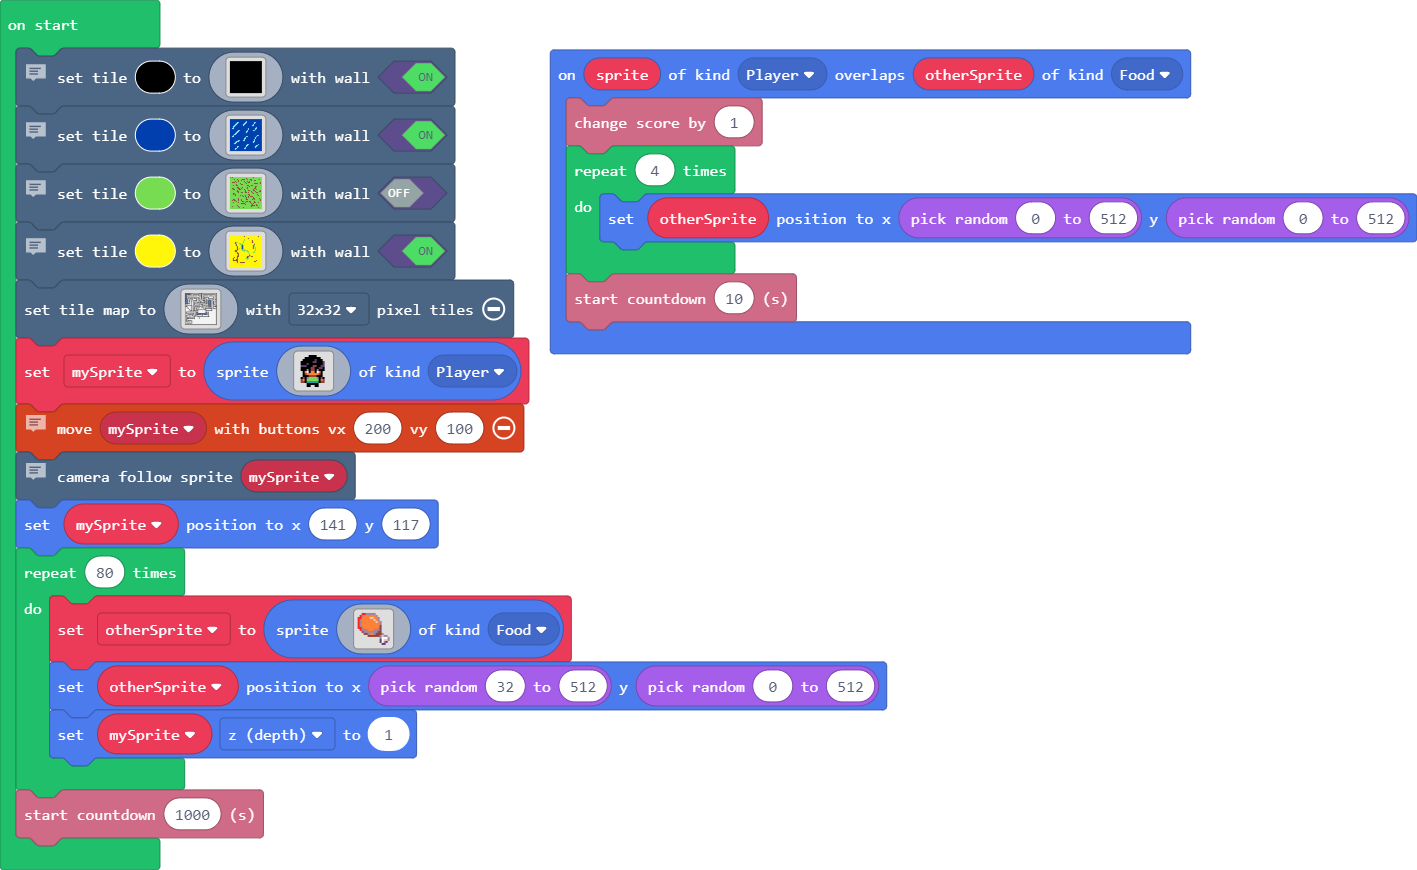
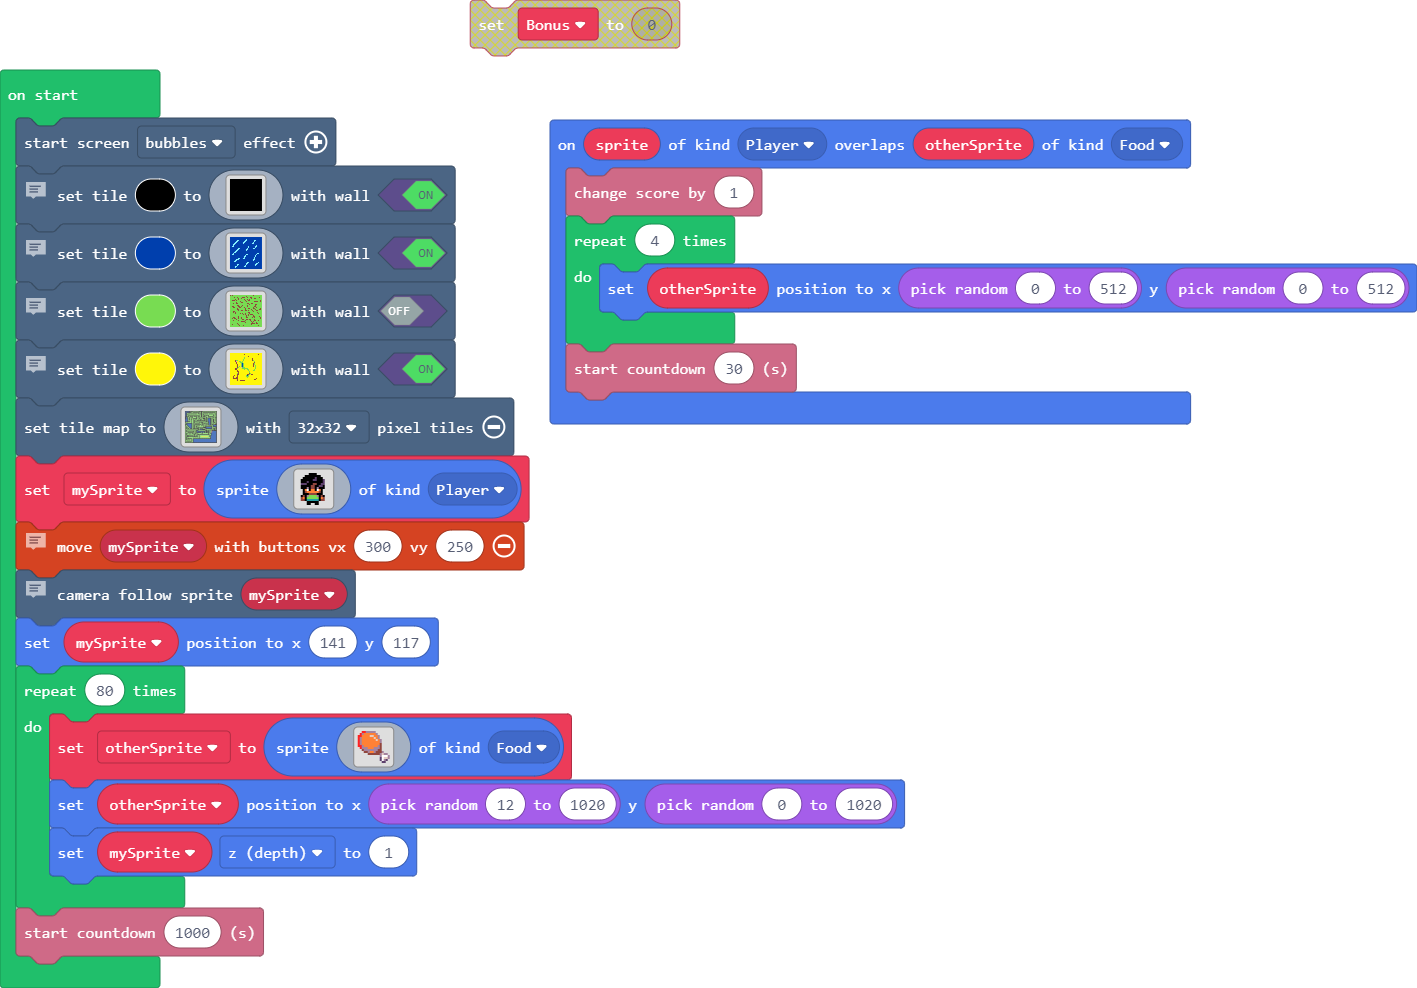
submit maze game

diff --git a/main.ts b/main.ts
@@ -3,9 +3,10 @@ sprites.onOverlap(SpriteKind.Player, SpriteKind.Food, function (sprite, otherSpr
     for (let index = 0; index < 4; index++) {
         otherSprite.setPosition(Math.randomRange(0, 512), Math.randomRange(0, 512))
     }
-    info.startCountdown(10)
+    info.startCountdown(30)
 })
 let otherSprite: Sprite = null
+effects.bubbles.startScreenEffect()
 // When turned on player cannot enter that color
 scene.setTile(15, img`
 f f f f f f f f f f f f f f f f f f f f f f f f f f f f f f f f 
@@ -148,52 +149,52 @@ scene.setTile(5, img`
 `, true)
 scene.setTileMap(img`
 f f f f f f f f f f f f f f f f f f f f f f f f f f f f f f f f f f f f f f f f f f f f f f f f 
-f 8 8 8 8 8 8 f 1 1 f 1 1 1 1 1 1 1 1 1 1 1 f 1 f f 1 1 1 1 1 1 1 1 1 1 1 1 1 1 1 1 1 1 1 1 1 f 
-f 8 f f f f f f f 1 f 1 f f f f f f f f f 1 f 1 f f 1 f f f f f f f f f f f f f f f f f f f 1 f 
-f 8 f 1 1 1 1 1 1 1 1 1 1 1 1 1 1 1 1 1 f 1 1 1 f f 1 1 1 1 1 1 1 1 1 1 1 1 1 1 1 1 1 1 1 f 1 f 
-f 8 f 1 f f f f f f f f f f f f f f f 1 f f f f f f 1 f f f f f f f f 1 f f f f f f f 1 f f 1 f 
-f 8 f 1 f 1 1 1 1 1 1 1 1 1 1 1 1 1 1 1 1 1 1 1 f f 1 f 1 1 1 1 1 1 1 1 1 1 1 1 1 1 f 1 1 f 1 f 
-f 8 f 1 f f f f f f f f f f f f f f f f f f f 1 f f 1 f 1 f 1 f f f f f 1 1 1 1 1 1 f f 1 f 1 f 
-f 8 f 1 1 1 1 1 1 1 1 1 1 1 1 1 1 1 1 1 1 1 1 1 f f 1 f 1 f 1 f 1 1 1 f 1 1 1 1 1 1 1 f 1 1 1 f 
-f f f f f f 1 f f f f f 1 f f f f f 1 f f f f 1 f f 1 f f f 1 f 1 1 1 f f f f f f f 1 f 1 f 1 f 
-f f 8 f 1 1 1 f 1 1 f f 1 1 1 1 1 f 1 1 1 1 1 1 1 1 1 1 1 1 1 f f 1 1 1 1 1 1 1 1 1 1 f 1 f f f 
-f f 8 f f 1 f f 1 1 f 1 1 1 1 1 1 f 1 f f f f f f f f f f f 1 1 f 1 f f f f f 1 f f f f 1 f 1 f 
-f f 8 8 f 1 f 1 1 1 f 1 f f f f f f 1 1 1 f 1 1 1 1 1 f f f f 1 f 1 f 8 8 8 f 1 f 1 1 1 1 f 1 f 
-f f 8 8 f 1 f 1 1 f f 1 f 1 1 1 1 1 1 1 f f 1 f f f 1 f 1 f f 1 f 1 f 8 8 8 f 1 f 1 f f 1 f 1 f 
-f 8 8 8 f 1 f f 1 f 1 1 f 1 f f f f f 1 1 1 1 f 1 1 1 1 1 f f 1 f 1 f 8 8 8 f 1 f 1 f f 1 f 1 f 
-f 8 8 8 f 1 1 1 1 f 1 1 f 1 f 1 1 1 f f f f f f f f f f f f f 1 f 1 f 8 8 8 f 1 f 1 f f 1 f 1 f 
-f 8 8 8 f f f f 1 f 1 1 f 1 f 1 f 1 1 1 1 1 1 1 1 1 1 1 1 1 1 1 f 1 f 8 8 8 f 1 f 1 f f 1 f 1 f 
-f f f f f 1 f 1 1 f 1 1 f 1 f 1 f f f f f f f f f f f f f f f f f 1 f f 8 8 f 1 f 1 f f 1 1 1 f 
-f 1 1 1 1 1 1 1 1 f 1 1 f 1 f 1 1 1 1 1 1 1 f 1 f 1 f 1 1 1 1 1 1 1 1 f 8 8 f 1 f 1 1 f f f 1 f 
-f 1 f f f f f f f f f 1 f 1 f f f f f f f f f 1 f 1 f 1 f f f f f f 1 f 8 8 f 1 f 1 f f 1 1 1 f 
-f 1 f 1 1 1 1 1 1 1 f 1 f 1 1 1 1 1 1 1 1 1 1 1 1 1 f 1 f 1 1 1 1 f 1 f 8 8 f 1 f 1 1 1 1 f f f 
-f f f f 1 1 1 1 1 1 f 1 f 1 f f f f f f f f f f f 1 f 1 f 1 f 1 f f 1 f 8 8 f 1 f 1 f f f f f f 
-f 1 1 f 1 1 1 1 1 1 f 1 f 1 f 1 1 1 1 1 1 f 1 1 f 1 f 1 f 1 f 1 f f 1 f f f f 1 f 1 f 1 1 1 1 f 
-f 1 1 1 f 1 1 1 1 1 f 1 f 1 f 1 f f f f f f 1 1 f 1 1 1 f 1 f 1 1 1 1 1 1 1 1 1 f 1 f 1 1 1 1 f 
-f 1 1 1 1 f 1 1 1 1 f 1 f 1 f 1 1 f 1 1 1 1 1 1 1 1 1 1 f 1 f f f f f f f f f f f 1 f f f f f f 
-f 1 1 1 1 1 f 1 1 1 f 1 f 1 f 1 f f 1 f f f f f f f f f f f f f 1 1 1 1 1 1 1 1 f 1 1 1 1 1 1 f 
-f 1 1 1 1 1 1 f 1 1 f 1 f 1 f 1 1 1 1 f 1 1 1 1 1 1 1 1 1 1 1 f 1 1 1 1 1 1 1 1 f 1 1 1 1 1 1 f 
-f 1 1 1 1 1 1 1 f f f 1 f f f f f f f f 1 1 1 1 1 1 1 1 1 1 1 f f f f f f f f f f 1 1 1 1 1 1 f 
-f 1 1 1 1 1 1 1 1 1 1 1 1 1 1 1 1 1 1 1 1 1 1 1 1 1 1 1 1 1 1 1 1 1 1 1 1 1 1 1 1 1 1 1 1 1 1 f 
-f 1 f f f f f f f f f f f f f f f f f f 1 1 1 1 1 1 1 1 1 1 1 f f f 1 f 1 1 1 1 1 1 1 1 1 1 1 f 
-f 1 f 1 1 1 1 1 1 1 1 1 1 1 1 1 1 f 8 f 1 1 1 1 1 1 1 1 1 1 1 f 8 f 1 f 1 1 1 1 1 1 1 1 1 1 1 f 
-f 1 f f f f f f f f f f f f 1 f 1 f 8 f f f f f f f f f f f f f 8 f 1 f 1 1 1 1 1 1 1 1 1 1 1 f 
-f 1 f 1 1 1 1 1 1 1 1 1 1 f 1 f 1 f 8 8 8 8 8 8 8 8 8 8 8 8 8 8 8 f 1 f 1 1 1 1 1 1 1 1 1 1 1 f 
-f 1 1 1 f f f f f f f f 1 f 1 f 1 f f f f f f f 1 f f 1 f f f f f f 1 f 1 1 1 1 1 1 1 1 1 1 1 f 
-f 1 f 1 f 1 1 1 1 1 1 f 1 1 1 f 1 1 1 1 1 1 1 1 1 f f 1 1 1 1 1 1 1 1 f 1 1 1 1 1 1 1 1 1 1 1 f 
-f 1 f 1 f 1 f f f f 1 f f f f f f f f f 1 1 1 1 1 1 1 1 1 1 1 1 1 1 1 f 1 1 1 1 1 1 1 1 1 1 1 f 
-f 1 f 1 1 1 1 1 1 1 1 1 1 1 f 1 1 1 1 f f f f f f f f f f f f f f f f f f 1 1 1 1 1 1 1 1 1 1 f 
-f 1 f f f f f f f f f f f 1 f 1 1 1 1 1 1 f 1 1 1 1 1 1 1 1 1 1 1 1 1 1 1 1 1 1 1 1 1 1 1 1 1 f 
-f 1 1 1 f 1 1 1 1 1 1 1 1 1 f 1 1 1 1 1 1 f 1 1 1 1 1 1 1 1 1 1 1 1 1 1 1 1 1 1 1 1 1 1 1 1 1 f 
-f 1 f f f f f f f f f f f f f 1 1 1 1 1 1 f 1 1 1 1 1 1 1 1 1 1 1 1 1 1 1 1 1 1 1 1 1 1 1 1 1 f 
-f 1 f 1 1 1 1 1 1 1 1 1 1 1 1 1 1 1 1 1 1 1 1 1 1 1 1 1 1 1 1 1 1 1 1 1 1 1 1 1 1 1 1 1 1 1 1 f 
-f 1 f 1 f 1 1 1 1 1 1 1 1 1 1 1 1 1 1 1 1 1 1 1 1 1 1 1 1 1 1 1 1 1 1 1 1 1 1 1 1 1 1 1 1 1 1 f 
-f 1 f 1 f f f f f f f 1 1 1 1 1 1 1 1 1 1 1 1 1 1 1 1 1 1 1 1 1 1 1 1 1 1 1 1 1 1 1 1 1 1 1 1 f 
-f 1 f 1 1 1 1 1 1 1 f 1 1 1 1 1 1 1 1 1 1 1 1 1 1 1 1 1 1 1 1 1 1 1 1 1 1 1 1 1 1 1 1 1 1 1 1 f 
-f 1 f f f f f f 1 1 f 1 1 1 1 1 1 1 1 1 1 1 1 1 1 1 1 1 1 1 1 1 1 1 1 1 1 1 1 1 1 1 1 1 1 1 1 f 
-f 1 1 1 1 1 1 1 1 1 f 1 1 1 1 1 1 1 1 1 1 1 1 1 1 1 1 1 1 1 1 1 1 1 1 1 1 1 1 1 1 1 1 1 1 1 1 f 
-f 1 f f f f f f f f f 1 1 1 1 1 1 1 1 1 1 1 1 1 1 1 1 1 1 1 1 1 1 1 1 1 1 1 1 1 1 1 1 1 1 1 1 f 
-f 1 1 1 1 1 1 1 1 1 1 1 1 1 1 1 1 1 1 1 1 1 1 1 1 1 1 1 1 1 1 1 1 1 1 1 1 1 1 1 1 1 1 1 1 1 1 f 
+f 8 8 8 8 8 8 f 7 7 f 7 7 7 7 7 7 7 7 7 7 7 f 7 f f 7 7 7 7 7 7 7 7 7 7 7 7 7 7 7 7 7 7 7 7 7 f 
+f 8 f f f f f f f 7 f 7 f f f f f f f f f 7 f 7 f f 7 f f f f f f f f f f f f f f f f f f f 7 f 
+f 8 f 7 7 7 7 7 7 7 7 7 7 7 7 7 7 7 7 7 f 7 7 7 f f 7 7 7 7 7 7 7 7 7 7 7 7 7 7 7 7 7 7 7 f 7 f 
+f 8 f 7 f f f f f f f f f f f f f f f 7 f f f f f f 7 f f f f f f f f 7 f f f f f f f 7 f f 7 f 
+f 8 f 7 f 7 7 7 7 7 7 7 7 7 7 7 7 7 7 7 7 7 7 7 f f 7 f 7 7 7 7 7 7 7 7 7 7 7 7 7 7 f 7 7 f 7 f 
+f 8 f 7 f f f f f f f f f f f f f f f f f f f 7 f f 7 f 7 f 7 f f f f f 7 7 7 7 7 7 f f 7 f 7 f 
+f 8 f 7 7 7 7 7 7 7 7 7 7 7 7 7 7 7 7 7 7 7 7 7 f f 7 f 7 f 7 f 7 7 7 f 7 7 7 7 7 7 7 f 7 7 7 f 
+f f f f f f 7 f f f f f 7 f f f f f 7 f f f f 7 f f 7 f f f 7 f 7 7 7 f f f f f f f 7 f 7 f 7 f 
+f f 8 f 7 7 7 f 7 7 f f 7 7 7 7 7 f 7 7 7 7 7 7 7 7 7 7 7 7 7 f f 7 7 7 7 7 7 7 7 7 7 f 7 f f f 
+f f 8 f f 7 f f 7 7 f 7 7 7 7 7 7 f 7 f f f f f f f f f f f 7 7 f 7 f f f f f 7 f f f f 7 f 7 f 
+f f 8 8 f 7 f 7 7 7 f 7 f f f f f f 7 7 7 f 7 7 7 7 7 f f f f 7 f 7 f 8 8 8 f 7 f 7 7 7 7 f 7 f 
+f f 8 8 f 7 f 7 7 f f 7 f 7 7 7 7 7 7 7 f f 7 f f f 7 f 7 f f 7 f 7 f 8 8 8 f 7 f 7 f f 7 f 7 f 
+f 8 8 8 f 7 f f 7 f 7 7 f 7 f f f f f 7 7 7 7 f 7 7 7 7 7 f f 7 f 7 f 8 8 8 f 7 f 7 f f 7 f 7 f 
+f 8 8 8 f 7 7 7 7 f 7 7 f 7 f 7 7 7 f f f f f f f f f f f f f 7 f 7 f 8 8 8 f 7 f 7 f f 7 f 7 f 
+f 8 8 8 f f f f 7 f 7 7 f 7 f 7 f 7 7 7 7 7 7 7 7 7 7 7 7 7 7 7 f 7 f 8 8 8 f 7 f 7 f f 7 f 7 f 
+f f f f f 7 f 7 7 f 7 7 f 7 f 7 f f f f f f f f f f f f f f f f f 7 f f 8 8 f 7 f 7 f f 7 7 7 f 
+f 7 7 7 7 7 7 7 7 f 7 7 f 7 f 7 7 7 7 7 7 7 f 7 f 7 f 7 7 7 7 7 7 7 7 f 8 8 f 7 f 7 7 f f f 7 f 
+f 7 f f f f f f f f f 7 f 7 f f f f f f f f f 7 f 7 f 7 f f f f f f 7 f 8 8 f 7 f 7 f f 7 7 7 f 
+f 7 f 8 8 8 8 8 8 8 f 7 f 7 7 7 7 7 7 7 7 7 7 7 7 7 f 7 f 7 7 7 7 f 7 f 8 8 f 7 f 7 7 7 7 f f f 
+f f f f 8 8 8 8 8 8 f 7 f 7 f f f f f f f f f f f 7 f 7 f 7 f 7 f f 7 f 8 8 f 7 f f f f f f f f 
+f f 7 f 8 8 8 8 8 8 f 7 f 7 f 7 7 7 7 7 7 f 7 7 f 7 f 7 f 7 f 7 f f 7 f f f f 7 f 7 f 8 8 8 8 f 
+f 7 7 7 f 8 8 8 8 8 f 7 f 7 f 7 f f f f f f 7 7 f 7 7 7 f 7 f 7 7 7 7 7 7 7 7 7 f 7 f 8 8 8 8 f 
+f 7 f 7 7 f 8 8 8 8 f 7 f 7 f 7 7 f 7 7 7 7 7 7 7 7 7 7 f 7 f f f f f f f f f f f 7 f f f f f f 
+f 7 f f 7 7 f 8 8 8 f 7 f 7 f 7 f f 7 f f f f f f f f f f f f f 8 8 8 8 8 8 8 8 f 7 f 7 7 7 f f 
+f 7 f 7 f 7 7 f 8 8 f 7 f 7 f 7 7 7 7 f 7 7 7 7 7 7 7 7 f f f f 8 8 8 8 8 8 8 8 f 7 7 7 f 7 f f 
+f 7 f 7 f f 7 7 f f f 7 f f f f f f f f f 7 f f f f f 7 7 7 7 f f f f f f f f f f 7 f f f 7 f f 
+f 7 7 7 7 7 7 7 7 7 7 7 7 7 7 7 7 7 7 7 f 7 f 8 8 8 f f f f 7 7 7 7 7 7 7 7 7 7 7 7 7 7 f 7 7 f 
+f 7 f f f f f f f f f f f f f f f f f f f 7 f f f f f f f f f f f f 7 f 7 f f f f f f f f f f f 
+f 7 f 7 7 7 7 7 7 7 7 7 7 7 7 7 7 f 8 f 7 7 7 7 7 7 7 7 7 7 7 f f f 7 f 7 f 7 7 e f 8 f f f f f 
+f 7 f f f f f f f f f f f f 7 f 7 f 8 f f f f f f f f f f f 7 f f f 7 f 7 f 7 7 e 8 8 8 8 8 8 f 
+f 7 f 7 7 7 7 7 7 7 7 7 7 f 7 f 7 f 8 8 8 8 8 8 8 8 8 8 8 f 7 f f f f f 7 f 7 e e 8 8 8 8 8 8 f 
+f 7 7 7 f f f f f f f f 7 f 7 f 7 f f f f f f f 7 f f 7 f f 7 f f f 7 f 7 f 7 e 8 8 8 8 8 8 8 f 
+f 7 f 7 f 7 7 7 7 7 7 f 7 7 7 f 7 7 7 7 7 7 7 7 7 f f 7 7 7 7 7 7 7 7 f 7 f f f 8 8 8 8 8 8 8 f 
+f 7 f 7 f 7 f f f f 7 f f f f f f f f f 7 7 7 7 7 7 7 7 7 7 7 7 7 7 7 f 7 7 7 f 8 8 8 8 8 8 8 f 
+f 7 f 7 7 7 7 7 7 7 7 7 7 7 f 7 7 7 7 f f f f f f f f f f f f f f f f f f 7 7 f 8 8 8 8 8 8 8 f 
+f 7 f f f f f f f f f f f 7 f 7 f f f f 7 f 7 7 7 7 7 7 7 7 7 7 7 7 7 7 f 7 f f 8 8 8 8 8 8 8 f 
+f 7 7 7 f 7 7 7 7 7 7 7 7 7 f 7 7 7 7 7 7 f 7 7 7 7 7 7 7 7 7 7 7 7 7 7 f 7 f 8 8 8 8 8 8 8 8 f 
+f 7 f f f f f f f f f f f f f f f f f f 7 f 7 7 5 5 5 5 5 5 5 5 5 5 5 7 f 7 f 8 8 8 8 8 8 8 8 f 
+f 7 f 7 7 7 7 7 7 7 7 7 7 f 7 7 f 7 7 f 7 f 7 7 7 7 7 7 7 7 7 7 7 7 7 7 7 7 f 8 8 8 8 8 8 8 8 f 
+f 7 f 7 f 7 7 7 7 7 7 7 7 7 7 7 7 7 7 7 7 f 7 7 7 7 7 7 7 7 7 7 7 7 7 7 7 7 f 8 8 8 8 8 8 8 8 f 
+f 7 f 7 f f f f f f f 7 f f f f f f f f f f f f f f f f f f f f f f f f f f f 8 8 8 8 8 8 8 8 f 
+f 7 f 7 7 7 7 7 7 7 f 7 f 8 8 8 8 8 8 8 8 8 8 8 8 8 8 8 8 8 8 8 8 8 8 8 8 8 8 8 8 8 8 8 8 8 8 f 
+f 7 f f f f f f 7 7 f 7 f 8 8 8 8 8 8 8 8 8 8 8 8 8 8 8 8 8 8 8 8 8 8 8 8 8 8 8 8 8 8 8 8 8 8 f 
+f 7 7 7 7 7 7 7 7 7 f 7 f 8 8 8 8 8 8 8 8 8 8 8 8 8 8 8 8 8 8 8 8 8 8 8 8 8 8 8 8 8 8 8 8 8 8 f 
+f 7 f f f f f f f f f 7 f 8 8 8 8 8 8 8 8 8 8 8 8 8 8 8 8 8 8 8 8 8 8 8 8 8 8 8 8 8 8 8 8 8 8 f 
+f 7 7 7 7 7 7 7 7 7 7 7 f 8 8 8 8 8 8 8 8 8 8 8 8 8 8 8 8 8 8 8 8 8 8 8 8 8 8 8 8 8 8 8 8 8 8 f 
 f f f f f f f f f f f f f f f f f f f f f f f f f f f f f f f f f f f f f f f f f f f f f f f f 
 `, TileScale.ThirtyTwo)
 let mySprite = sprites.create(img`
@@ -215,7 +216,7 @@ e e f 6 6 6 6 6 6 f e e .
 . . . f f . . f f . . . . 
 `, SpriteKind.Player)
 // Controls the Sprite
-controller.moveSprite(mySprite, 200, 100)
+controller.moveSprite(mySprite, 300, 250)
 // The camera follows sprite throughout game
 scene.cameraFollowSprite(mySprite)
 mySprite.setPosition(141, 117)
@@ -238,7 +239,7 @@ for (let index = 0; index < 80; index++) {
 . . . . . . . . . . . c 1 b c . 
 . . . . . . . . . . . . c c . . 
 `, SpriteKind.Food)
-    otherSprite.setPosition(Math.randomRange(32, 512), Math.randomRange(0, 512))
+    otherSprite.setPosition(Math.randomRange(12, 1020), Math.randomRange(0, 1020))
     mySprite.z = 1
 }
 info.startCountdown(1000)
